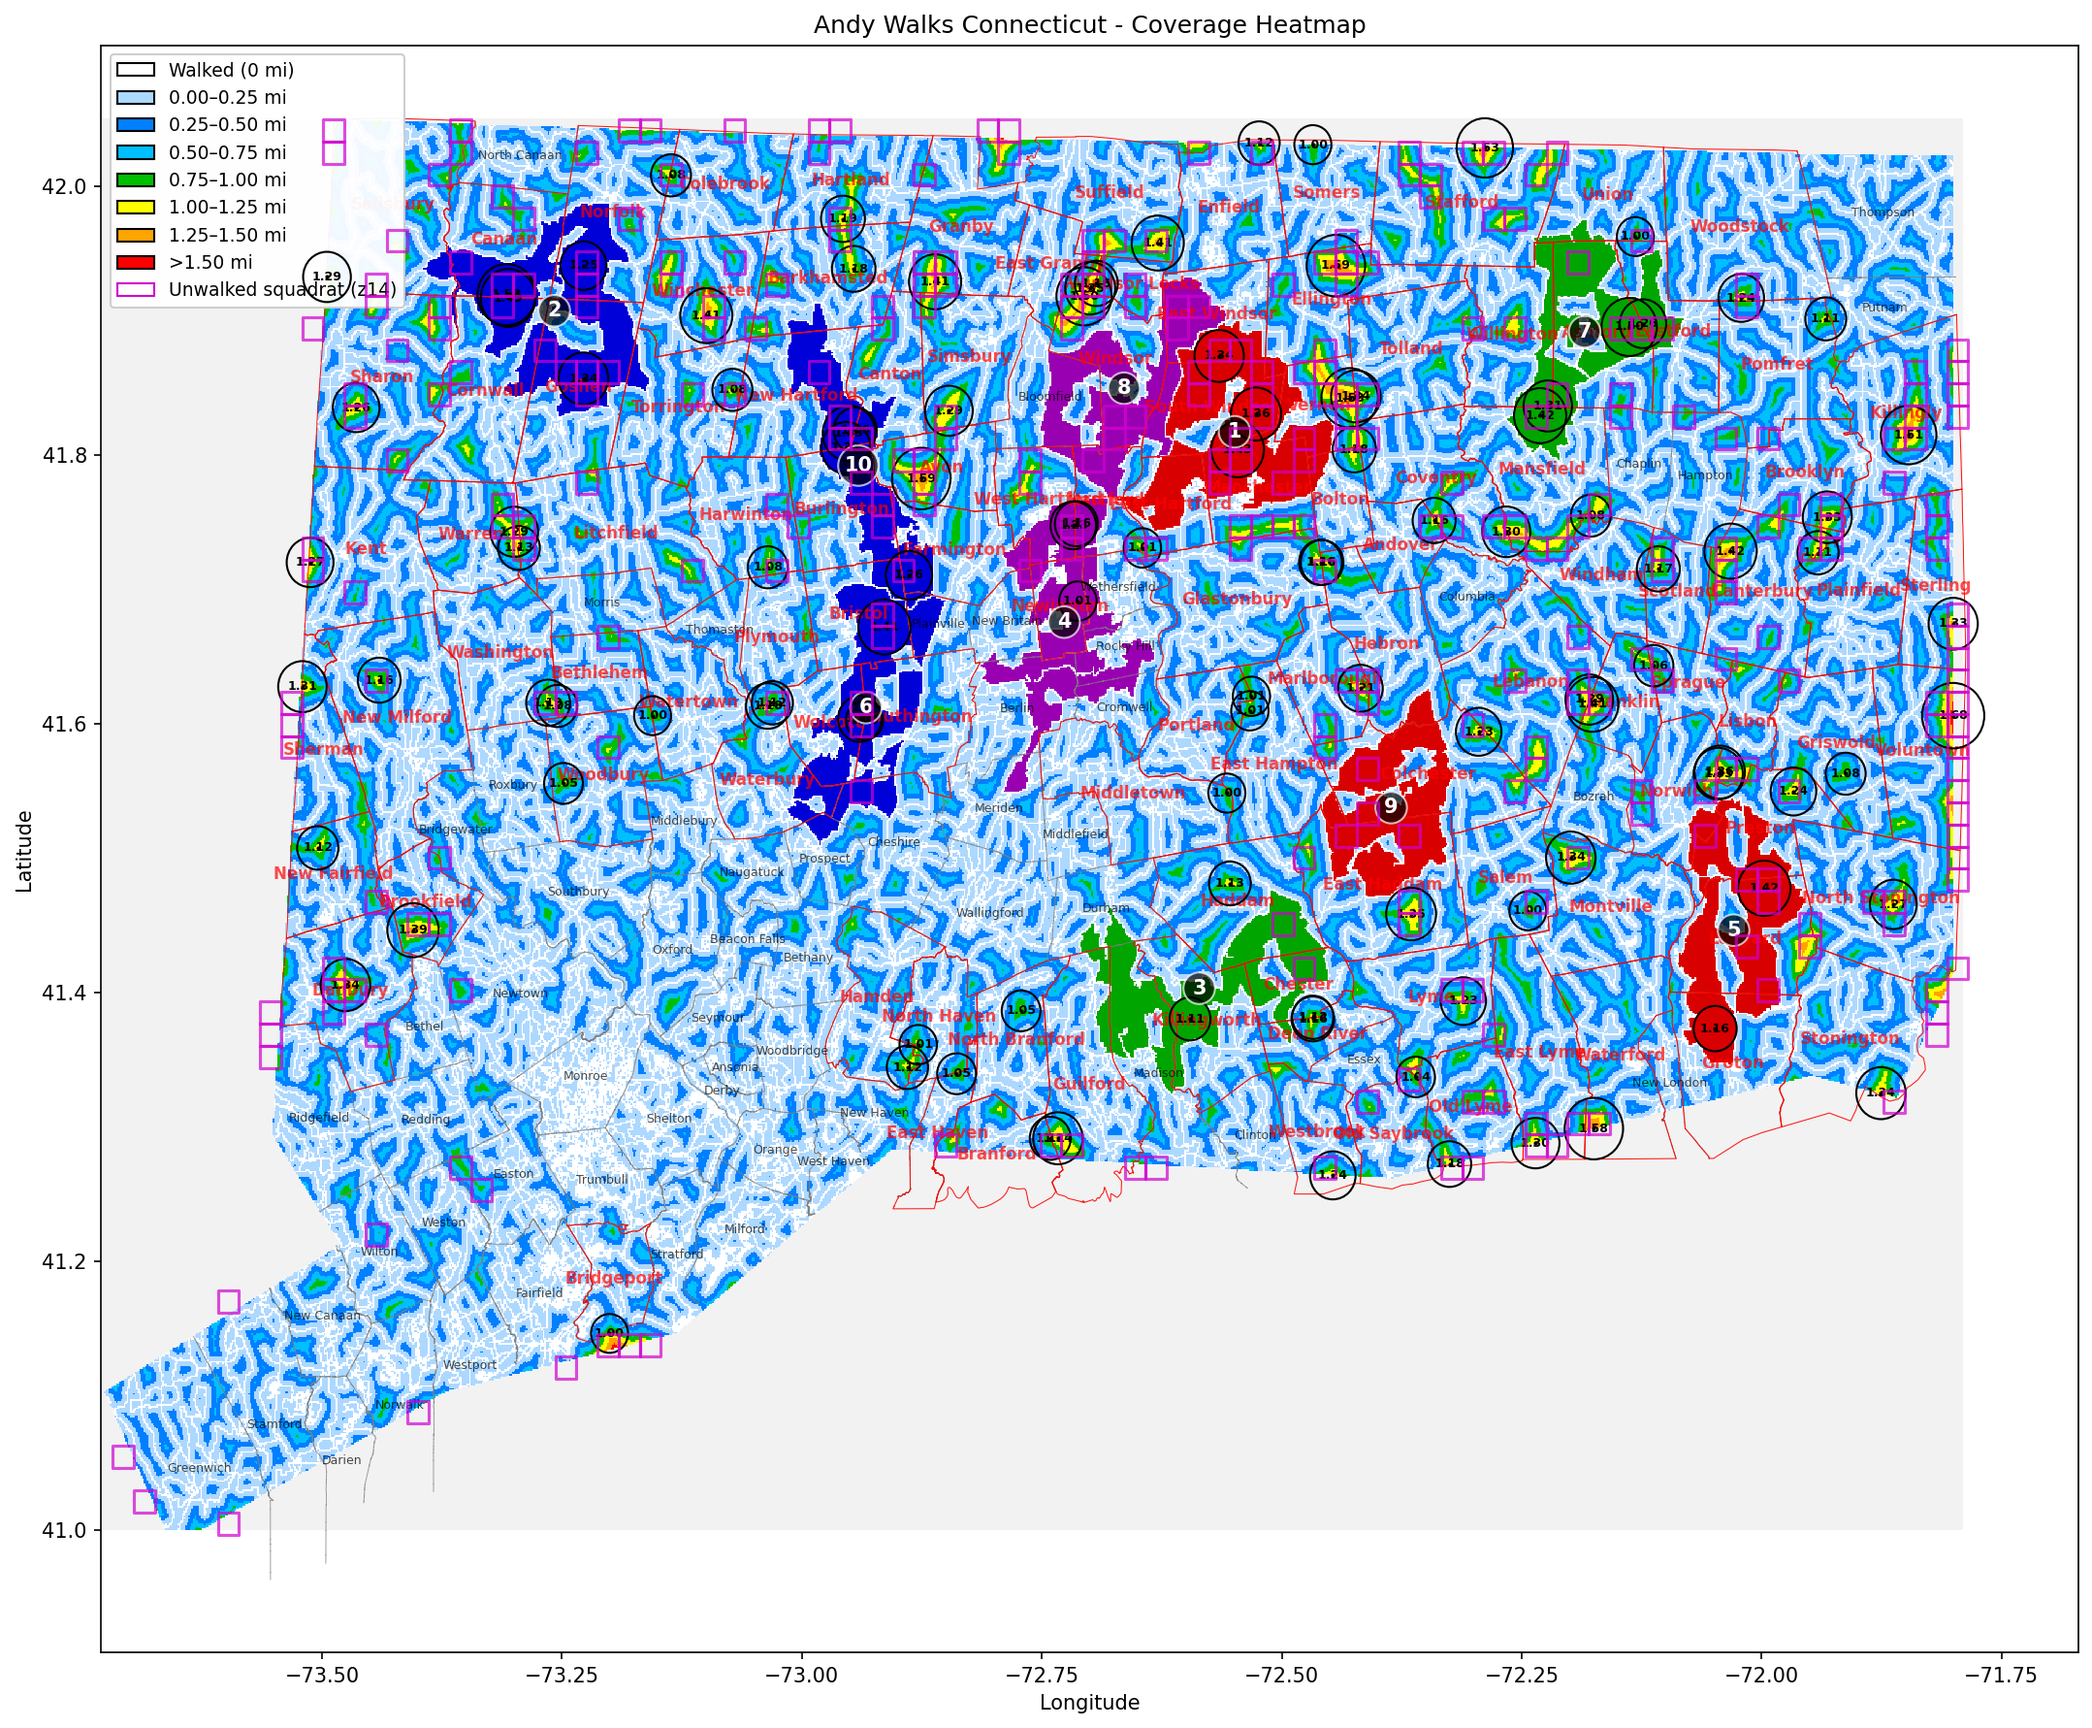
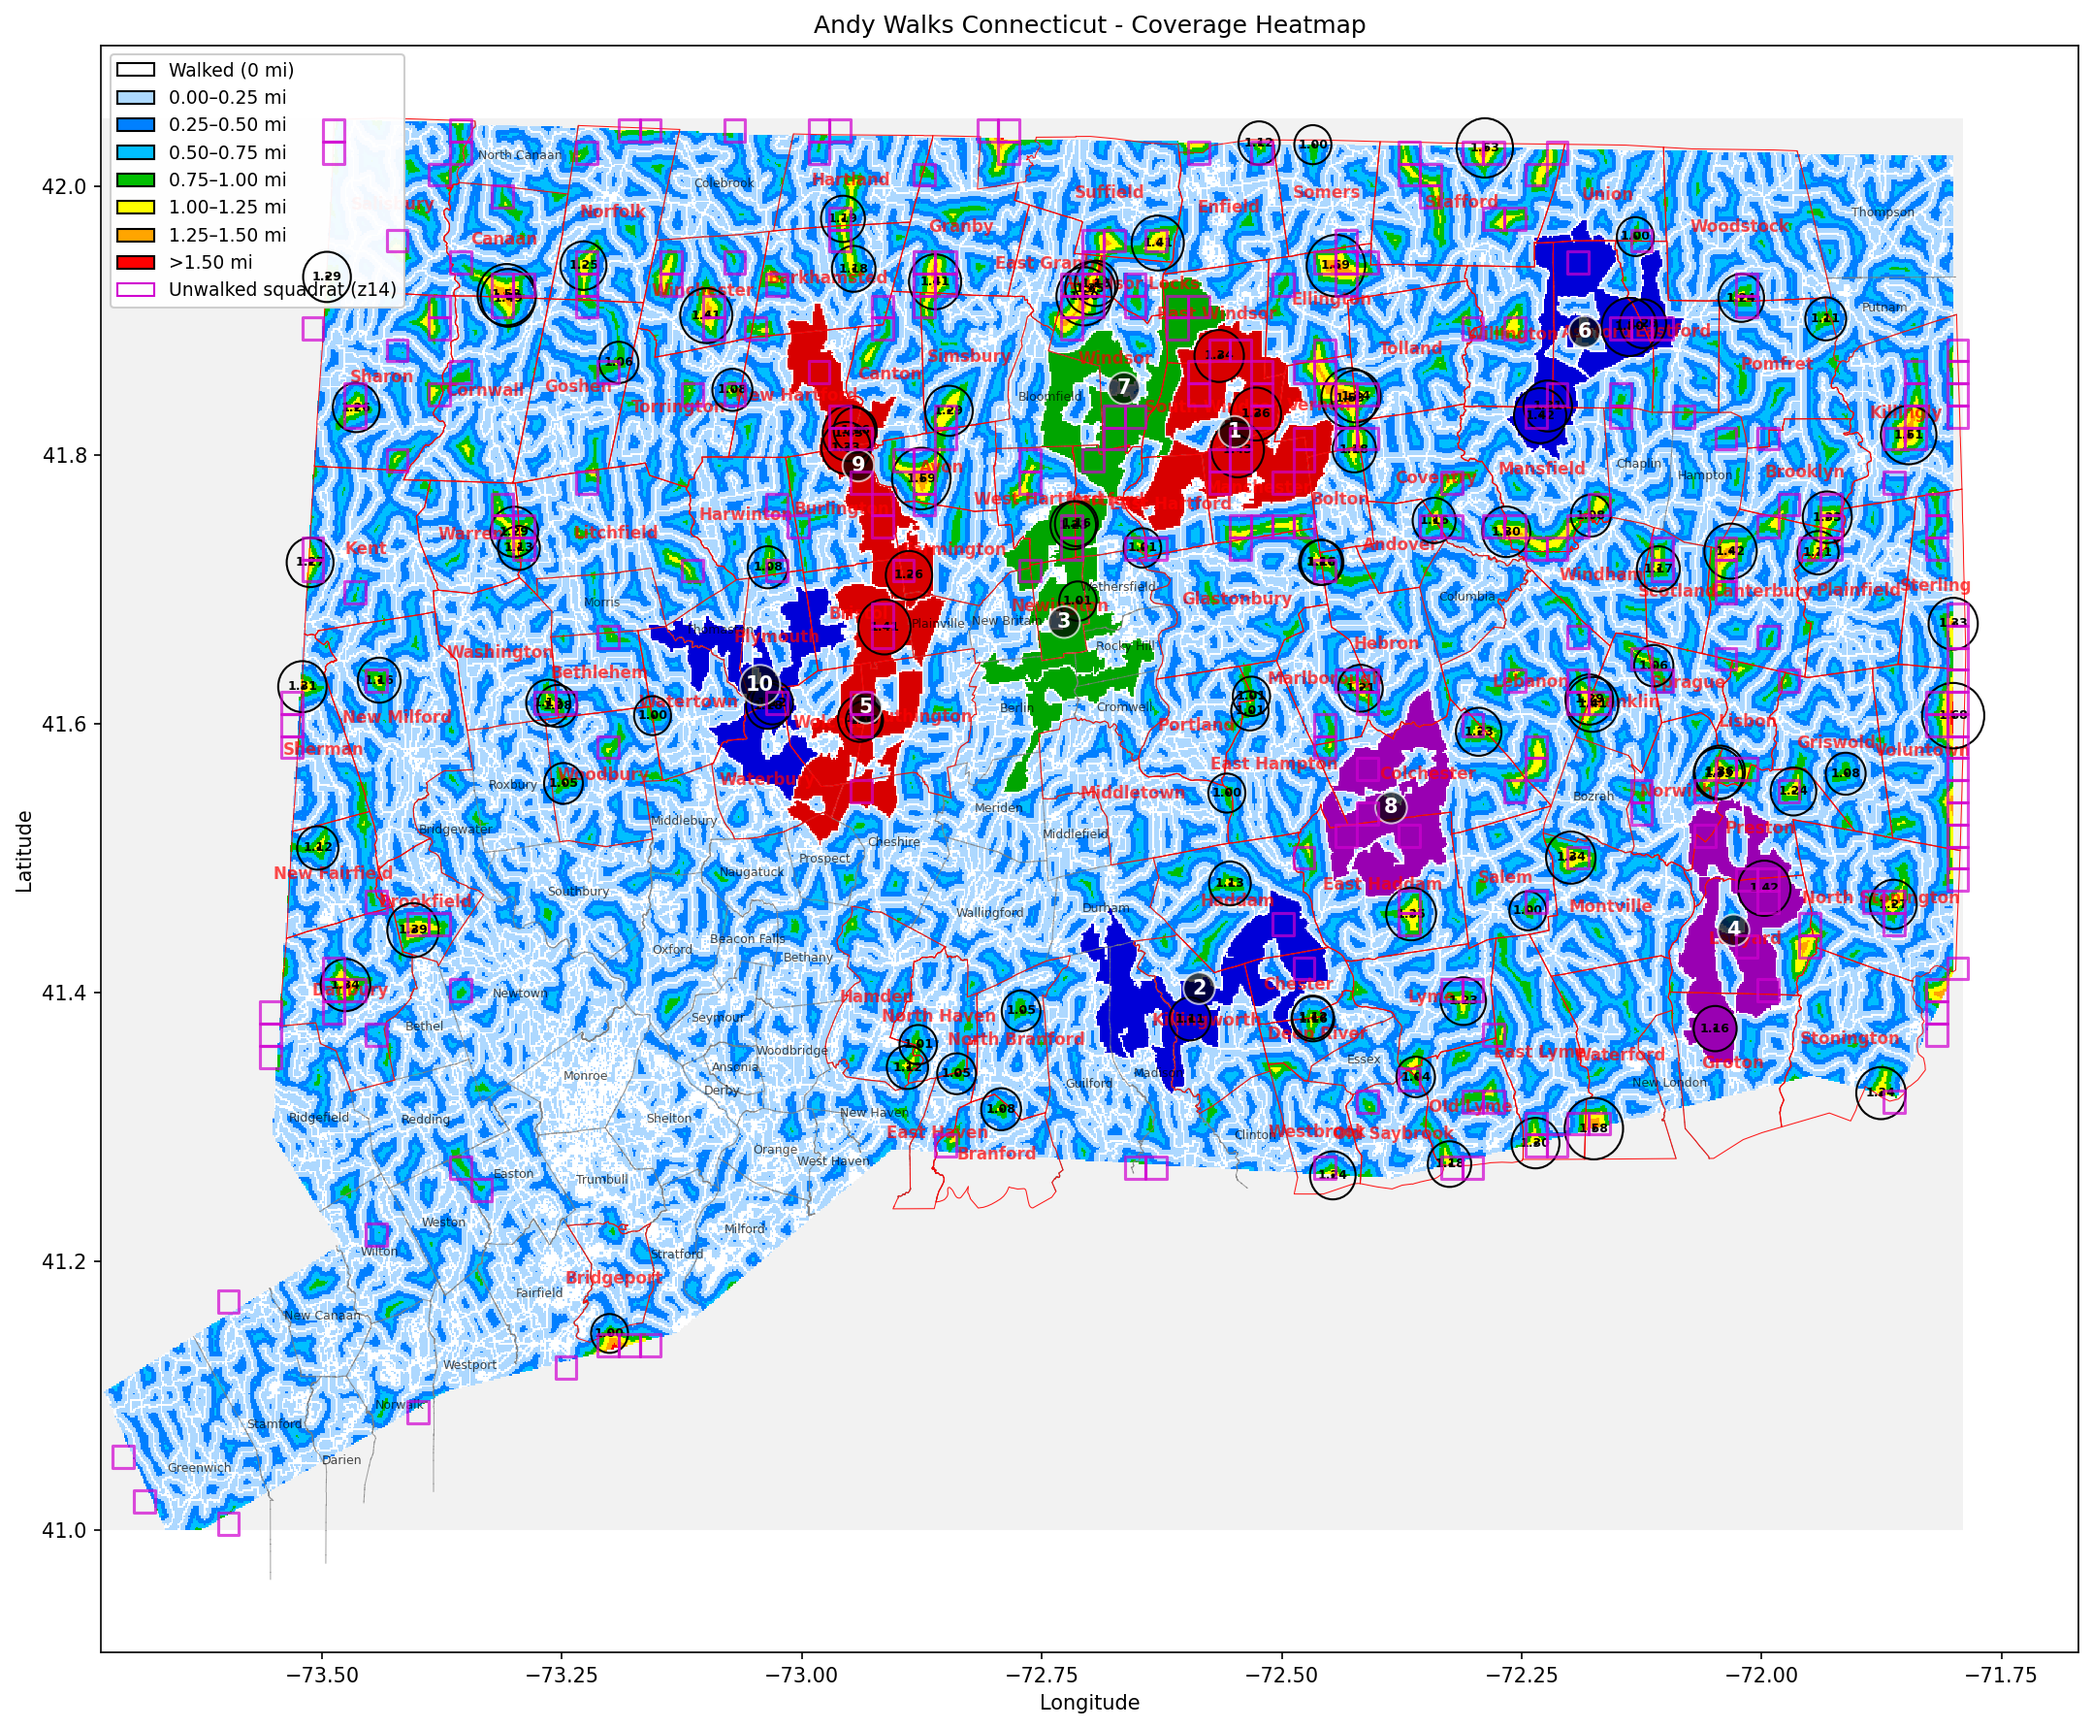
Tighten gerrymander detection and add 169-town CSV rosters
Lower UNWALKED_THRESHOLD to 0.25 miles and TOP_N to 50 so the map shows
fewer, denser unwalked pockets. Add a morphological opening pass
(OPEN_ITERS) before labeling, which severs 1-cell-wide filaments so
pockets that merely touch at hairline pinch points get labeled as
distinct regions instead of merging into one sprawling blob.

Halve town boundary line width again on both maps and drop the figure
padding to zero. Regenerate Gerrymander_Map.png, Gerrymander_Top20_Zoom.png
and heatmap.png.

Add all_169_connecticut_towns.csv and
all_169_towns_with_citystrides_links.csv - full rosters of the 169 CT
towns, the latter with per-town CityStrides URLs.

Add .gitignore covering cache/, __pycache__/, Commit.txt and
file_changes.txt so scraper cache and scratch files stay untracked.

Files:
A  .gitignore
M  src/plotmap/Gerrymander_Map.png
M  src/plotmap/Gerrymander_Top20_Zoom.png
A  src/plotmap/all_169_connecticut_towns.csv
A  src/plotmap/all_169_towns_with_citystrides_links.csv
M  src/plotmap/gerrymander_map.py
M  src/plotmap/gerrymander_top20_zoom.py
M  src/plotmap/heatmap.png

diff --git a/src/plotmap/gerrymander_map.py b/src/plotmap/gerrymander_map.py
@@ -34,9 +34,11 @@ TOWNS_GEOJSON = "ct_towns.geojson"
 OUTPUT_PNG = "Gerrymander_Map.png"
 
 GRID = 0.001                 # precision level 3 grid spacing (degrees)
-UNWALKED_THRESHOLD = 0.5     # Dist >= this = unwalked
-TOP_N = 100                  # number of gerrymanders to show
+UNWALKED_THRESHOLD = 0.25    # Dist >= this = unwalked (miles from nearest walked street)
+TOP_N = 50                   # number of gerrymanders to show
 MIN_AREA = 5                 # ignore tiny specks below this many cells
+OPEN_ITERS = 1               # morphological opening passes to sever hairline bridges
+                             # between otherwise-separate pockets before labeling
 
 # The 4 primary colors (RGB 0-255)
 PRIMARY_COLORS = [
@@ -81,6 +83,14 @@ def find_gerrymanders(dist_grid, present_grid):
     """Return labeled grid plus a list of interior unwalked regions, sorted by area desc."""
     unwalked = present_grid & (dist_grid >= UNWALKED_THRESHOLD)
     print(f"Unwalked cells: {unwalked.sum()}")
+
+    # Morphological opening (erode then dilate) severs 1-cell-wide filaments so
+    # that pockets merely touching at hairline pinch points are separated into
+    # distinct regions instead of one sprawling blob.
+    if OPEN_ITERS > 0:
+        opened = ndimage.binary_opening(unwalked, iterations=OPEN_ITERS)
+        print(f"Unwalked cells after opening x{OPEN_ITERS}: {opened.sum()}")
+        unwalked = opened
 
     labeled, num_features = ndimage.label(unwalked)
     print(f"Found {num_features} unwalked regions")
@@ -279,7 +289,7 @@ def main():
 
     # Overlay town boundaries.
     for lons, lats in load_town_lines():
-        ax.plot(lons, lats, color="#333333", linewidth=0.125, alpha=0.7)
+        ax.plot(lons, lats, color="#333333", linewidth=0.0625, alpha=0.7)
 
     # Label each town at its centroid.
     for name, lon_c, lat_c in load_town_labels():
@@ -310,7 +320,7 @@ def main():
     )
 
     plt.tight_layout()
-    plt.savefig(OUTPUT_PNG, dpi=150, bbox_inches="tight", facecolor="white")
+    plt.savefig(OUTPUT_PNG, dpi=150, bbox_inches="tight", pad_inches=0, facecolor="white")
     print(f"Saved {OUTPUT_PNG}")
 
 

diff --git a/src/plotmap/gerrymander_top20_zoom.py b/src/plotmap/gerrymander_top20_zoom.py
@@ -70,7 +70,7 @@ def main():
         pad = max(0.008, span * 0.4)
 
         for lons, lats in town_lines:
-            ax.plot(lons, lats, color="#333333", linewidth=0.15, alpha=0.75)
+            ax.plot(lons, lats, color="#333333", linewidth=0.075, alpha=0.75)
 
         x_lo, x_hi = r_lon_min - pad, r_lon_max + pad
         y_lo, y_hi = r_lat_min - pad, r_lat_max + pad
